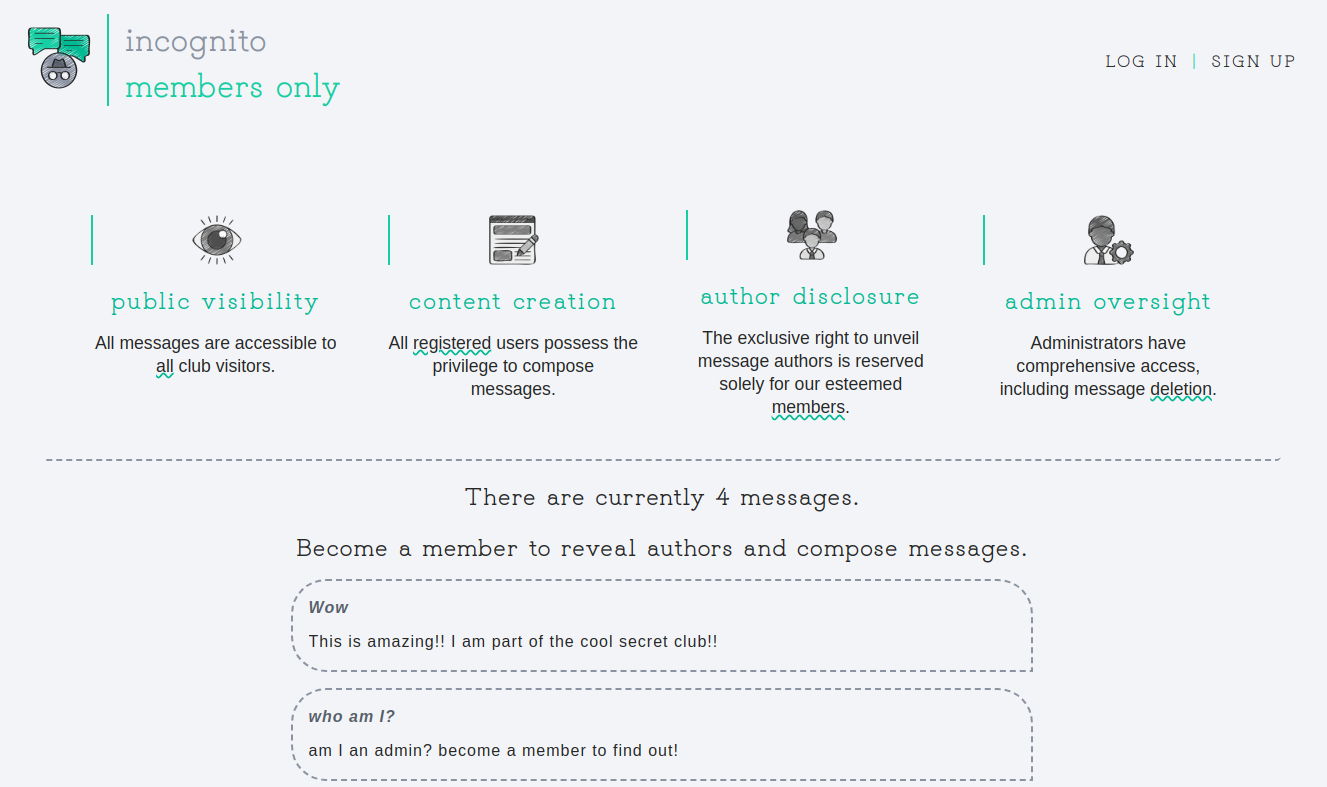
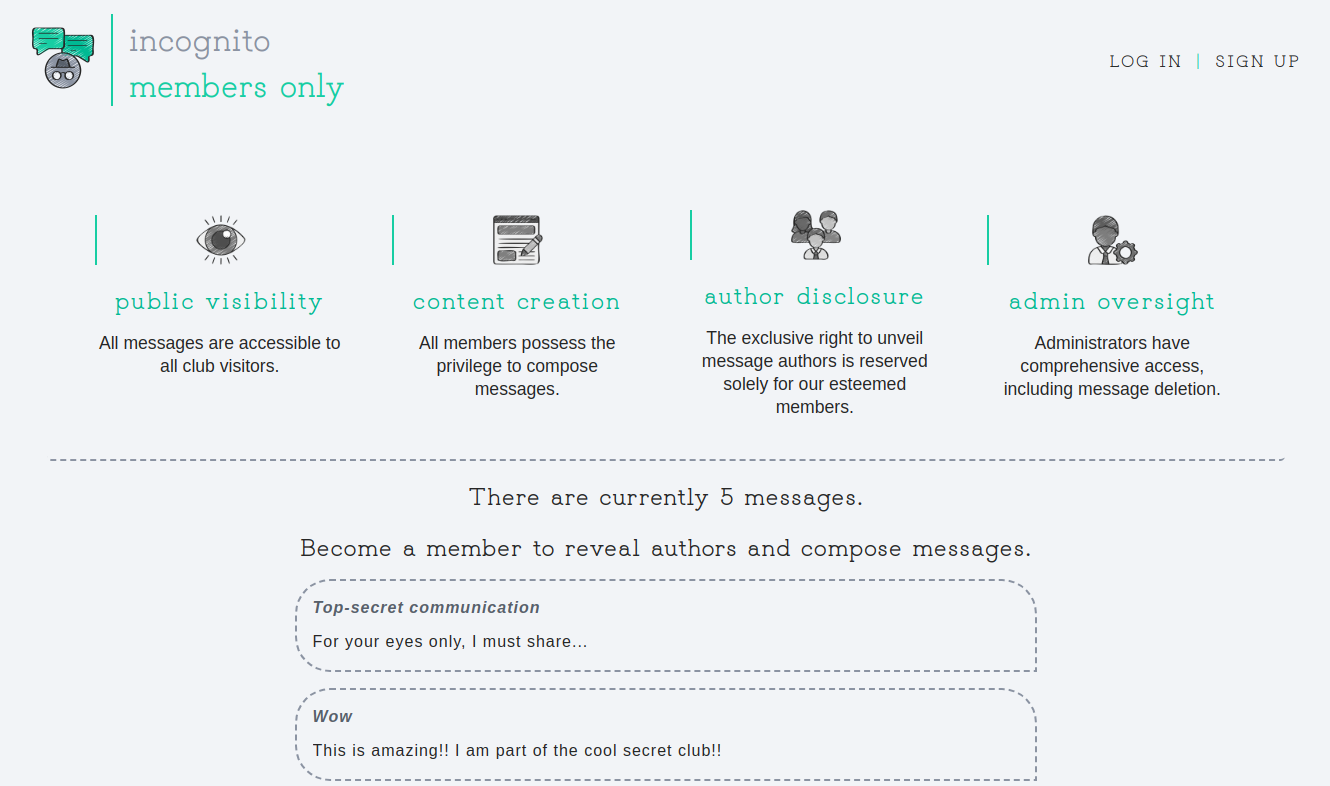
Update sign up form

diff --git a/controllers/postController.js b/controllers/postController.js
@@ -10,17 +10,11 @@ exports.new_post_form_post = [
   body("title")
     .trim()
     .isLength({ min: 2, max: 30 })
-    .withMessage("Title must be between 2 and 30 characters long")
-    .not()
-    .isEmpty()
-    .withMessage("Title is required"),
+    .withMessage("Title must be between 2 and 30 characters long"),
   body("message")
     .trim()
     .isLength({ min: 2, max: 250 })
-    .withMessage("Message must be between 2 and 250 characters long")
-    .not()
-    .isEmpty()
-    .withMessage("Message is required"),
+    .withMessage("Message must be between 2 and 250 characters long"),
 
   asyncHandler(async (req, res, next) => {
     const errors = validationResult(req);

diff --git a/app.js b/app.js
@@ -35,13 +35,13 @@ passport.use(
       const user = await User.findOne({ username: username });
 
       if (!user) {
-        return done(null, false, { message: "Incorrect username" });
+        return done(null, false, { message: "Incorrect username or password" });
       }
 
       const match = await bcrypt.compare(password, user.password);
 
       if (!match) {
-        return done(null, false, { message: "Incorrect password" });
+        return done(null, false, { message: "Incorrect username or password" });
       }
       return done(null, user);
     } catch (err) {

diff --git a/public/stylesheets/form.css b/public/stylesheets/form.css
@@ -61,6 +61,11 @@ textarea {
   margin-bottom: 10px;
 }
 
+.input-container > li {
+  color: var(--primary-grey);
+  margin: 5px 0;
+}
+
 .submit-button {
   background-color: var(--primary-grey);
   color: var(--primary-light);
@@ -88,7 +93,6 @@ ul {
 }
 
 ul > li {
-  text-decoration: underline var(--primary-green) wavy 1px;
   font-family: Arial, Helvetica, sans-serif;
   font-size: 1em;
   color: var(--primary-dark);

diff --git a/controllers/indexController.js b/controllers/indexController.js
@@ -140,7 +140,7 @@ exports.join_form_post = [
   asyncHandler(async (req, res, next) => {
     const postCount = await Post.countDocuments({}).exec();
     const allPosts = await Post.find({}, "title text author timestamp")
-      .sort({ timestamp: 1 })
+      .sort({ timestamp: -1 })
       .populate("author")
       .exec();
     const errors = validationResult(req);

diff --git a/public/stylesheets/style.css b/public/stylesheets/style.css
@@ -187,7 +187,8 @@ h1 {
 }
 
 .keyword {
-  text-decoration: underline var(--secondary-green) wavy;
+  color: var(--secondary-green);
+  font-style: italic;
 }
 
 .info {
